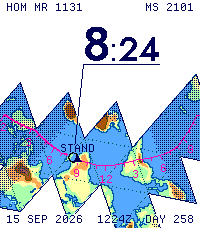
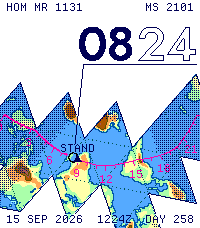
24-hour by default; callout time styles; zone time under the body
The page now defaults to 24-hour figures. The callout's time can be set in
five styles, workshopped on a contact sheet; the default is four figures at
one size with the minutes outlined (1424), matching the margins' four-figure
times. The margin can optionally give the time in the nautical zone under
the body, with its zone letter (Z at Greenwich, R US Eastern, I Japan).

Claude-Session: https://claude.ai/code/session_013jrbqnwLffJYPYurYaCgSZ

diff --git a/src/enroute-render.js b/src/enroute-render.js
@@ -74,6 +74,7 @@ export const CONTOURS=[500,1000,2000,3000,4000,5000],SHELF=-200;
 // above a station's horizon (about 15.6 degrees of arc).
 const EARTH=6371,ORBIT=410,MASK=5*RAD;
 export const ACQUISITION=(Math.acos(EARTH*Math.cos(MASK)/(EARTH+ORBIT))-MASK)/RAD;
+export const NUMERALS=['colon','plain','even','mono','accent'];
 export const FIGURE={scale:40,hour:80,hourTwo:72,minute:28,callout:28,calloutMinute:20};
 // The time scale registers with the route: its hour marks stand over the
 // two stations, 120 px apart on the zoomed charts, so each minute is exactly
@@ -155,7 +156,7 @@ const FIX=['....#....','...###...','...###...','..#####..','..#####..','.#######
 const AIRPORT=['.....#.....','.....#.....','....###....','...#...#...','..#.....#..','###.....###','..#.....#..','...#...#...','....###....','.....#.....','.....#.....'];
 const BAYER=[0,8,2,10,12,4,14,6,3,11,1,9,15,7,13,5];
 const HEXAGON=['..###..','.#...#.','#.....#','.#...#.','..###..'],TRIANGLE=['....#....','...#.#...','...#.#...','..#...#..','..#...#..','.#.....#.','#########'];
-export function renderEnroute({camera,ground,relief,light:zones,plate,epoch,timeZone,clock24,readout=false,home=null,events=[],tape='fixed'}){
+export function renderEnroute({camera,ground,relief,light:zones,plate,epoch,timeZone,clock24,readout=false,home=null,events=[],tape='fixed',numerals='colon',zone='utc'}){
   const pal=PLATES[plate],buf=new Uint8ClampedArray(W*H*3),mat=ground.material,sun=position('sun',Math.floor(epoch/MINUTE)*MINUTE).dir;
   const light=pal.night==='screen'?new Uint8Array(W*H):zones,land=mat.map(m=>m===LAND?1:0);
   const zoneAt=(x,y)=>light[Math.max(0,Math.min(H-1,Math.round(y)))*W+Math.max(0,Math.min(W-1,Math.round(x)))];
@@ -377,10 +378,29 @@ export function renderEnroute({camera,ground,relief,light:zones,plate,epoch,time
   // hung from a shoulder, the cartographer's elbow leader, that runs back
   // to the body. The leader is cased with a hairline of paper so it crosses
   // relief cleanly, and it breaks for lettering, as a printed line does.
-  const calloutWidth=(big,small)=>runWidth(hour,big)+2*(gapFor(big)+1)+glyph(small,':').width+runWidth(parts.m,small);
+  // The callout's time, in one of the styles under study: 'colon' (the
+  // hour, a colon and smaller minutes), 'plain' (no colon), 'even' (four
+  // figures at one size, the minutes outlined like the next hour's
+  // figure), 'mono' (minutes in double-size Departure Mono) and 'accent'
+  // (smaller minutes in the route's ink). Pixels are relative to the top
+  // left of the hour figure; every style shares its baseline.
+  const timeFigure=(big,small)=>{
+    const fh=runHeight(big),gap=gapFor(big),hh=numerals==='even'&&clock24?hour.padStart(2,'0'):hour,solid=figurePixels(hh,big,0,0),hollow=[],accent=[];
+    let x=runWidth(hh,big);const sh=runHeight(small),add=(px,to)=>{for(const q of px)to.push(q);};
+    if(numerals==='colon'){x+=gap+1;add(figurePixels(':',small,x,fh-sh),solid);x+=glyph(small,':').width+gap+1;add(figurePixels(parts.m,small,x,fh-sh),solid);x+=runWidth(parts.m,small);}
+    else if(numerals==='even'){x+=gap+3;add(outline(figurePixels(parts.m,big,x,0),1),hollow);x+=runWidth(parts.m,big);}
+    else if(numerals==='mono'){x+=gap+3;add(textPixels(departure.double,parts.m,x,fh),solid);x+=textWidth(departure.double,parts.m)-2;}
+    else{x+=gap+3;add(figurePixels(parts.m,small,x,fh-sh),numerals==='accent'?accent:solid);x+=runWidth(parts.m,small);}
+    return {solid,hollow,accent,w:x,h:fh};
+  };
+  const setTime=(t,fx,fy)=>{
+    const at=px=>px.map(([a,b])=>[a+fx,b+fy]),solid=at(t.solid),hollow=at(t.hollow),accent=at(t.accent);
+    letter([...solid,...hollow],ink('ink'));if(accent.length)letter(accent,ink('route'));
+    return [...solid,...hollow,...accent];
+  };
+  const calloutWidth=(big,small)=>timeFigure(big,small).w;
   const callout=({big,small,x:bx,y:by,up,reach,aside=null})=>{
-    const gap=gapFor(big),colon=gapFor(big)+1,hw=runWidth(hour,big),cw=glyph(small,':').width,mw=runWidth(parts.m,small),fw=hw+colon+cw+colon+mw;
-    const fh=runHeight(big),sh=runHeight(small),sy=up?by-reach:by+reach;
+    const t=timeFigure(big,small),fw=t.w,fh=t.h,sy=up?by-reach:by+reach;
     const open=([x,y])=>!type.some(b=>x>=b.x-2&&x<b.x+b.w+2&&y>=b.y-2&&y<b.y+b.h+2);
     if(aside){
       // Set aside in open map beside the track: the figure level with the
@@ -388,8 +408,7 @@ export function renderEnroute({camera,ground,relief,light:zones,plate,epoch,time
       // the body from the shoulder's near end.
       const fx=aside.x,fy=Math.max(aside.top,Math.min(aside.bottom-fh-3,by-fh)),y=fy+fh+3,end={x:fx+fw+1,y},d=Math.hypot(end.x-bx,end.y-by)||1,line=[];
       segment({x:bx+(end.x-bx)/d*9,y:by+(end.y-by)/d*9},end,(x,y)=>line.push([x,y]));segment({x:fx-1,y},end,(x,y)=>line.push([x,y]));
-      const mx0=fx+hw+colon,figure=[...figurePixels(hour,big,fx,fy),...figurePixels(':',small,mx0,fy+fh-sh),...figurePixels(parts.m,small,mx0+cw+colon,fy+fh-sh)];
-      letter(line.filter(open),ink('ink'));letter(figure,ink('ink'));
+      letter(line.filter(open),ink('ink'));const figure=setTime(t,fx,fy);
       return {figure,box:bounds(figure)};
     }
     // Hang the time on whichever side keeps it on the face and its leader
@@ -401,9 +420,8 @@ export function renderEnroute({camera,ground,relief,light:zones,plate,epoch,time
       return {fx,shown,score:(fits?0:1000)+(line.length-shown.length)*10+(side===(bx<W/2?1:-1)?0:1)};
     };
     const {fx,shown}=[layout(1),layout(-1)].sort((a,b)=>a.score-b.score)[0];
-    const fy=up?sy-3-fh:sy+3,mx0=fx+hw+colon;
-    const figure=[...figurePixels(hour,big,fx,fy),...figurePixels(':',small,mx0,fy+fh-sh),...figurePixels(parts.m,small,mx0+cw+colon,fy+fh-sh)];
-    letter(shown,ink('ink'));letter(figure,ink('ink'));
+    const fy=up?sy-3-fh:sy+3;
+    letter(shown,ink('ink'));const figure=setTime(t,fx,fy);
     return {figure,box:bounds(figure)};
   };
   if(camera.world&&tape!=='fixed'){
@@ -525,7 +543,10 @@ export function renderEnroute({camera,ground,relief,light:zones,plate,epoch,time
     if(middle){const c=textPixels(LABEL,middle,Math.round((left+right-textWidth(LABEL,middle))/2),y);letter(c,color,1);zulu={text:middle,box:bounds(c)};}
   };
   // Zulu: the same moment in UTC, as pilots and mission control keep it.
-  const utc=new Date(epoch),Z=`${String(utc.getUTCHours()).padStart(2,'0')}${String(utc.getUTCMinutes()).padStart(2,'0')}Z`;let zulu=null;
+  // With zone 'body', the margin shows instead the time in the nautical
+  // time zone under the body, with the zone's letter: Z at Greenwich, R for
+  // US Eastern, I for Japan. The Sun's is always near noon.
+  const zoned=zone==='body'?nauticalZone(body.lon):{hours:0,letter:'Z'},utc=new Date(epoch+zoned.hours*3600000),Z=`${String(utc.getUTCHours()).padStart(2,'0')}${String(utc.getUTCMinutes()).padStart(2,'0')}${zoned.letter}`;let zulu=null;
   const MONTHS='JAN FEB MAR APR MAY JUN JUL AUG SEP OCT NOV DEC'.split(' ');
   if(camera.world){
     // Satellites say where their numbers come from: the 2019 archive, or
@@ -546,7 +567,13 @@ export function renderEnroute({camera,ground,relief,light:zones,plate,epoch,time
     if(home){const [l,r]=camera.body==='sun'||camera.body==='moon'?riseText(camera.body,home,epoch,timeZone):[passText(camera.body,home,epoch,timeZone),''];margin(l,r,11,ink('ink'));}
   }
   return {buf,marker:{x:p.x,y:p.y,lat:body.lat,lon:body.lon},stations,home:homeMark,zulu,margins,events:fixes,
-    figure:{hour,minute:parts.m,next,time:camera.day||readout?`${hour}:${parts.m}`:null,box:bounds(hourPixels),nextBox:bounds(nextSolid),index,scale:{x0:X0,x1:X1},readout:minuteBox},rose:camera.world?null:{...c0,r:20}};
+    figure:{hour,minute:parts.m,next,time:camera.day||readout?(numerals==='colon'?`${hour}:${parts.m}`:`${numerals==='even'&&clock24?hour.padStart(2,'0'):hour}${parts.m}`):null,box:bounds(hourPixels),nextBox:bounds(nextSolid),index,scale:{x0:X0,x1:X1},readout:minuteBox},rose:camera.world?null:{...c0,r:20}};
+}
+// Nautical time zones: 15° wide, centred on multiples of 15°, lettered A–M
+// east of Greenwich (no J), N–Y west, Z at Greenwich.
+export function nauticalZone(lon){
+  const hours=Math.max(-12,Math.min(12,Math.round((((lon+540)%360)-180)/15)));
+  return {hours,letter:hours===0?'Z':hours>0?'ABCDEFGHIKLM'[hours-1]:'NOPQRSTUVWXY'[-hours-1]};
 }
 // Local clock time in the chart's four figures, 24-hour, no colon.
 const hhmm=(t,timeZone)=>{const q=clockParts(t,timeZone);return `${String(q.h).padStart(2,'0')}${String(q.m).padStart(2,'0')}`;};
@@ -572,15 +599,15 @@ export function localDate(epoch,timeZone){
 export class EnrouteRenderer{
   constructor(atlas,meters){this.atlas=atlas;this.meters=meters;this.stats={geometryBuilds:0,lightBuilds:0,renders:0};}
   render(state){
-    const {body,epoch,timeZone,clock24,plate}=state,readout=!!state.readout,home=state.home||null,events=state.events||[],tape=['tape','slide'].includes(state.tape)?state.tape:'fixed',start=civilHour(epoch,timeZone);
+    const {body,epoch,timeZone,clock24,plate}=state,readout=!!state.readout,home=state.home||null,events=state.events||[],tape=['tape','slide'].includes(state.tape)?state.tape:'fixed',numerals=NUMERALS.includes(state.numerals)?state.numerals:'colon',zone=state.zone==='body'?'body':'utc',start=civilHour(epoch,timeZone);
     const projection=state.projection==='fuller'?'fuller':'chart',view=viewOf(body),slide=tape==='slide'&&projection==='chart'&&view==='world',minute=Math.floor(epoch/MINUTE)*MINUTE,geometryKey=`${projection}/${body}/${start}/${timeZone}${slide?`/${minute}`:''}`,lightKey=`${geometryKey}/${Math.floor(epoch/MINUTE)}`;
     if(this.geometryKey!==geometryKey){
       this.camera=projection==='fuller'?(body==='sun'||body==='moon'||view==='day'?rollCamera(body,start,{span:192,day:localDay(epoch,timeZone)}):rollCamera(body,start,{span:180})):view==='day'?chartCamera(body,start,{day:localDay(epoch,timeZone)}):chartCamera(body,start,{span:SPAN,center:slide?minute:null});this.ground=groundLayer(this.camera,this.atlas);this.relief=reliefLayer(this.camera,this.meters);
       this.geometryKey=geometryKey;this.stats.geometryBuilds++;
     }
     if(this.lightKey!==lightKey){this.light=lightLayer(this.ground,epoch);this.lightKey=lightKey;this.stats.lightBuilds++;}
-    const sceneKey=`${lightKey}/${timeZone}/${clock24}/${plate}/${readout}/${tape}/${home?`${home.code}${home.lat},${home.lon}`:''}/${events.map(e=>`${e.epoch}${e.label}`).join('|')}`;if(this.sceneKey===sceneKey)return this.last;
-    const out=renderEnroute({camera:this.camera,ground:this.ground,relief:this.relief,light:this.light,plate,epoch,timeZone,clock24,readout,home,events,tape});
+    const sceneKey=`${lightKey}/${timeZone}/${clock24}/${plate}/${readout}/${tape}/${numerals}/${zone}/${home?`${home.code}${home.lat},${home.lon}`:''}/${events.map(e=>`${e.epoch}${e.label}`).join('|')}`;if(this.sceneKey===sceneKey)return this.last;
+    const out=renderEnroute({camera:this.camera,ground:this.ground,relief:this.relief,light:this.light,plate,epoch,timeZone,clock24,readout,home,events,tape,numerals,zone});
     const zones=[0,0,0];for(const z of this.light)zones[z]++;
     this.sceneKey=sceneKey;this.stats.renders++;
     const rgba=new Uint8ClampedArray(W*H*4);for(let i=0;i<W*H;i++){rgba.set(out.buf.subarray(i*3,i*3+3),i*4);rgba[i*4+3]=255;}

diff --git a/index.html b/index.html
@@ -15,7 +15,7 @@
 <fieldset id="time-scale"><legend>Time scale</legend><div class="segmented"><button data-tape="fixed" aria-pressed="true">Fixed</button><button data-tape="tape" aria-pressed="false">Tape</button><button data-tape="slide" aria-pressed="false">Tape + world</button></div><p class="help">For satellites on the world band. Fixed is the ruler with a moving pointer. Tape holds the pointer still in the middle and runs the minutes and hours past it, like a heading tape behind its lubber line; this hour’s figure stays pinned at the left until the next one pushes it off. Tape + world scrolls the map too, so the satellite always sits under the index line.</p></fieldset>
 <fieldset><legend>Plate</legend><div id="enroute-plates" class="theme-options"></div></fieldset>
 <fieldset><legend>Read the chart</legend><p class="help">The hour figures stand over their stations: this hour solid over its compass rose, the next outlined over its reporting point. Between them the magenta route is a graduated scale, two pixels a minute, with longer marks at five and fifteen minutes and the quarters numbered. The Sun or Moon symbol is the index; the bold line behind it is the hour already flown. On the ISS world view the same scale is set in a panel above the map, with a triangular index. Under Clock, a time callout can give the time in full, hung from a leader to the body. Filled triangles on the route are your events, at their minute. Contours fall every 1,000 m, dotted at 500 m; offshore, the dotted blue line is the 200 m edge of the continental shelf. Three-letter codes are the tracking stations of NASA’s Mercury and Apollo networks. The margin carries the date, the time in Zulu (UTC, as pilots keep it) and the day of the year.</p></fieldset>
-<details class="art-options"><summary>Clock</summary><div><label class="select-label" for="enroute-zone">Clock zone<select id="enroute-zone"><option value="America/New_York">Eastern time</option><option value="UTC">UTC</option><option value="Europe/London">London</option><option value="Asia/Kolkata">Kolkata</option></select></label><label class="art-checkbox"><input type="checkbox" id="enroute-24"> 24-hour figures</label><label class="art-checkbox"><input type="checkbox" id="enroute-readout"> Time callout</label></div></details><div class="art-study-date"><span id="enroute-date"></span><span>FROZEN STUDY</span></div></aside></section>
+<details class="art-options"><summary>Clock</summary><div><label class="select-label" for="enroute-zone">Clock zone<select id="enroute-zone"><option value="America/New_York">Eastern time</option><option value="UTC">UTC</option><option value="Europe/London">London</option><option value="Asia/Kolkata">Kolkata</option></select></label><label class="art-checkbox"><input type="checkbox" id="enroute-24" checked> 24-hour figures</label><label class="select-label" for="enroute-numerals">Callout time<select id="enroute-numerals"><option value="even">Four figures, minutes outlined</option><option value="accent">Minutes in route ink</option><option value="mono">Minutes in Departure Mono</option><option value="plain">Smaller minutes, no colon</option><option value="colon">Smaller minutes with colon</option></select></label><label class="select-label" for="enroute-margin-zone">Margin time<select id="enroute-margin-zone"><option value="utc">Zulu (UTC)</option><option value="body">Nautical zone under the body</option></select></label><label class="art-checkbox"><input type="checkbox" id="enroute-readout"> Time callout</label></div></details><div class="art-study-date"><span id="enroute-date"></span><span>FROZEN STUDY</span></div></aside></section>
 <section class="compare"><div class="section-heading"><p class="eyebrow">AT READING SIZE</p><p>One display pixel per pixel. The same minute on each plate.</p></div><div id="enroute-proofs" class="comparison-grid"></div></section>
 <section class="reading art-reading"><article><p class="eyebrow">THE CHART</p><h2>Real ground, lightly drawn.</h2><p>Relief comes from NOAA’s ETOPO1 and the USGS GMTED2010 elevation models, generalized and contoured like a jet navigation chart. The continental shelf edge is the real 200 m depth line. Small crosses mark every five degrees, and degree ticks run around the edge like a neatline.</p></article><article><p class="eyebrow">THE ROUTE</p><h2>Two fixes and a magenta line.</h2><p>This hour is a VOR in its compass rose; the next is a reporting point. The route is the magenta line pilots follow on every modern display. The route itself is graduated like a ruler, a mark every minute between the two fixes; the body on it is the index.</p></article><article><p class="eyebrow">THE NETWORK</p><h2>Where the astronauts were heard.</h2><p>Codes like TAN, CRO and GDS mark stations of the Mercury and Apollo tracking networks. For the ISS, each carries its acquisition circle, the reach of a low orbit, as drawn on the world maps of the first mission control rooms.</p></article></section>
 <details class="technical"><summary>About this working study</summary><div><p>This is a browser design study, not an installable watchface. Every watch pixel is one of the display’s 64 RGB222 colors. The map is north-up and equidistant cylindrical; for the Sun and Moon the hour’s two stations sit 120 pixels apart, directly under the time scale’s hour marks, and the ISS, which travels about 240° of longitude in an hour, is shown on a world band. Scenes are frozen until you interact: there is no animation loop, polling or sensor use, and the page asks for your location only if you choose My location as home.</p><p>Coastlines are Natural Earth 1:50m land. Relief is a quarter-degree grid built from the AWS Open Data Terrain Tiles at zoom 3, whose sources there are NOAA ETOPO1 and USGS GMTED2010, both public domain; heights are smoothed before contouring and are not for navigation. Day, civil twilight and night come from the calculated Sun at the selected minute. Tracking-station positions are approximate, from public histories of the networks. Acquisition circles show where a 410 km orbit rises five degrees above each station’s horizon, about 15.6° of arc.</p><p>Sun and Moon positions come from Astronomy Engine. The “ISS archive” view uses a bounded June 5, 2019 element set from Satellite.js. Live satellites use current element sets fetched from CelesTrak by this page (at most once every two hours per satellite, and only within three days of their epoch) and propagated with SGP4. Figures are Jost, after Futura; chart lettering is Departure Mono by Helena Zhang; headlines are Michroma, after Microgramma. All three are SIL OFL 1.1. <a href="./NOTICE.txt">Sources and credits</a>.</p><p id="enroute-diagnostics"></p><p>Other studies: <a href="./study-05.html">chart</a> · <a href="./study-04.html">Shorelight</a> · <a href="./study-03.html">two-ink atlas</a> · <a href="./study-02.html">sculptural globe</a> · <a href="./study-01.html">orbital explorer</a>.</p></div></details>

diff --git a/src/enroute-app.js b/src/enroute-app.js
@@ -17,7 +17,7 @@ const NOTES={
   moon:'The ground directly beneath the Moon. It also runs west, a little more slowly than the Sun.',
   iss:'An archived orbit from 5 June 2019. The station laps most of the world in an hour, so the whole world is the chart.'
 };
-const state={body:'sun',observation:'day',epoch:DEMOS.sun,timeZone:'America/New_York',clock24:false,plate:'enroute',readout:false,projection:'chart',home:HOMES['America/New_York'],events:STUDY_EVENTS,tape:'fixed'};
+const state={body:'sun',observation:'day',epoch:DEMOS.sun,timeZone:'America/New_York',clock24:true,plate:'enroute',readout:false,projection:'chart',home:HOMES['America/New_York'],events:STUDY_EVENTS,tape:'fixed',numerals:'even',zone:'utc'};
 let main,studyEpoch=state.epoch;
 const proofs={};
 function paint(canvas,buf){
@@ -26,7 +26,7 @@ function paint(canvas,buf){
 }
 function render(){
   const r=main.render(state);$('enroute-watch').getContext('2d').putImageData(new ImageData(r.rgba,W,H),0,0);
-  for(const plate of Object.keys(PLATES))paint(proofs[plate],plate===state.plate?r.buf:renderEnroute({camera:main.camera,ground:main.ground,relief:main.relief,light:main.light,plate,epoch:state.epoch,timeZone:state.timeZone,clock24:state.clock24,readout:state.readout,home:state.home,events:state.events,tape:state.tape}).buf);
+  for(const plate of Object.keys(PLATES))paint(proofs[plate],plate===state.plate?r.buf:renderEnroute({camera:main.camera,ground:main.ground,relief:main.relief,light:main.light,plate,epoch:state.epoch,timeZone:state.timeZone,clock24:state.clock24,readout:state.readout,home:state.home,events:state.events,tape:state.tape,numerals:state.numerals,zone:state.zone}).buf);
   $('time-scale').classList.toggle('muted',viewOf(state.body)!=='world'||state.projection==='fuller');
   for(const key of ['body','observation','plate','projection','tape'])document.querySelectorAll(`[data-${key}]`).forEach(b=>b.setAttribute('aria-pressed',String(b.dataset[key]===state[key])));
   document.querySelectorAll('[data-observation]').forEach(b=>b.disabled=state.body!=='moon');$('moon-light').classList.toggle('muted',state.body!=='moon');
@@ -41,6 +41,7 @@ function render(){
   }
   if(!list.children.length){const li=document.createElement('li');li.textContent='No events this day.';list.append(li);}
   $('home-select').value=state.home?(Object.keys(HOMES).find(k=>HOMES[k]===state.home)||'here'):'none';
+  $('enroute-numerals').value=state.numerals;$('enroute-margin-zone').value=state.zone;
   $('enroute-zone').value=state.timeZone;$('enroute-24').checked=state.clock24;$('enroute-readout').checked=state.readout;
   const sat=catalogEntry(state.body),elements=elementsFor(state.body);
   $('enroute-date').textContent=new Date(state.epoch).toISOString().slice(0,10);$('body-note').textContent=sat?sat.note:NOTES[state.body];
@@ -136,6 +137,8 @@ try{
     const epoch=atLocal(state.epoch,state.timeZone,h,m),day=localDay(epoch,state.timeZone),taken=state.events.filter(e=>e.epoch>=day.start&&e.epoch<day.end).map(e=>e.label);
     state.events=[...state.events,{epoch,title,label:uniqueCode(title,taken)}];$('event-label').value='';render();
   });
+  $('enroute-numerals').addEventListener('change',()=>{state.numerals=$('enroute-numerals').value;render();});
+  $('enroute-margin-zone').addEventListener('change',()=>{state.zone=$('enroute-margin-zone').value;render();});
   $('enroute-readout').addEventListener('change',()=>{state.readout=$('enroute-readout').checked;render();});
   render();window.groundtrackEnroute={ready:true,state,main,render,track,demos:DEMOS,observations:OBSERVATIONS,events:STUDY_EVENTS};
 }catch(error){$('enroute-caption').textContent=`The chart could not load: ${error.message}. Please reload.`;console.error(error);}

diff --git a/docs/STUDY-06.md b/docs/STUDY-06.md
@@ -13,7 +13,8 @@ The Study 05 chart, redrawn in the language of aeronautical charts and of NASA's
 - **Fixes.** This hour's station is a VOR: a hexagon inside a compass rose, with 30° ticks, longer cardinal ticks and a north arrowhead. The next hour is an open triangle, a reporting point. The map is north-up, so the rose shows true north, not magnetic variation.
 - **The time scale.** On the Sun and Moon charts the route itself is the scale. The hour's two stations sit exactly 120 px apart, so each minute is exactly two pixels along the magenta line. There is a graduation every minute, longer marks every five and fifteen minutes, and the quarters are numbered 15, 30 and 45 beneath. The body's own symbol is the index moving along it. The two hour figures stand in the chart over their stations at one size and on one baseline: this hour solid over its compass rose, the next outlined over its reporting point. The figures, graduations and symbols read as one drawing. On the ISS world band the same reading is set in a panel above the map, built like an instrument tape: 180 px for the hour, three pixels a minute, tall hour marks under the figures and a solid triangular index, running the way the route runs. An optional **time callout** gives the time in full below the route, labelled the way a chart labels a feature. The minutes are set smaller than the hour on the same baseline, as on a cockpit clock, and the time hangs from a shoulder, the cartographer's elbow leader, that runs back to the body. The leader is cased with a hairline of paper so it crosses relief cleanly. It breaks for lettering, as a printed line does, and takes whichever side keeps it clearest. A pointer with an arrowhead, a VFR-style pennant and a plain dotted line were also tried; at this pixel size the arrowhead and pennant are too small to read, and the dotted line was too plain. The earlier radar-style data block, the minutes raised beside the hour and a separate scale panel over the zoomed charts were all tried and dropped.
 - **Experiment: the sliding tape.** On the satellite world band the ruler can instead be a tape (Time scale: Tape). The index stands still in the middle of the panel, a hairline in the route's ink with the solid pointer on the baseline. The minutes and hours run past it at three pixels a minute, future to the right, like a heading tape behind its lubber line or the day strip of a time-slide face. The hour figures ride the tape on their marks: this hour solid, the next outlined, cut off at the edges like any tape. When this hour's mark leaves the left edge, its figure stays pinned there as a sticky label until the next hour's figure pushes it off, so the hour is always readable. With Tape + world the map slides too, centred on the satellite each minute, and the index line runs on, dotted, down through the map to the satellite: one line reads the time and the place. The fixed ruler remains the default. Sliding the world rebuilds the map every minute in the browser; on a watch it is a horizontal wrap of the same equirectangular bitmap, but that is unmeasured.
-- **Date.** The zoomed views print the local date and its day of the year in the bottom margin (`27 SEP 2026 · DAY 270`). The day of the year is how Mission Control's clocks counted days. Between them sits the same moment in Zulu time, UTC as pilots and mission control keep it (`0824Z`), centred in the space the date and day leave. The ISS margin keeps its archive date and altitude above the band and sets Zulu time at the right under it.
+- **Clock.** Figures are 24-hour by default, as on a flight deck; 12-hour remains an option. The callout's time was workshopped in five styles (`docs/screenshots/study-06-numerals-contact-sheet.png`): the hour with a colon and smaller minutes; the same without the colon; four figures at one size with the minutes outlined; minutes in double-size Departure Mono; and smaller minutes in the route's ink. **Four figures** is the page's default: `1424` reads as one time, matches the four-figure times in the margins (`0824Z`, `SR 0648`), and its outlined minutes reuse the chart's own solid-and-outlined pair. The others stay selectable.
+- **Date.** The zoomed views print the local date and its day of the year in the bottom margin (`27 SEP 2026 · DAY 270`). The day of the year is how Mission Control's clocks counted days. Between them sits the same moment in Zulu time, UTC as pilots and mission control keep it (`0824Z`), centred in the space the date and day leave. Optionally it gives instead the time in the nautical time zone under the body, with that zone's letter. The zones are 15° wide and lettered A–M east of Greenwich (no J), N–Y west, and Z at Greenwich: `2324I` while QZSS is over Japan, `0824R` over the US East. The Sun's is always close to `1200`, since the Sun stands over noon. The ISS margin keeps its archive date and altitude above the band and sets Zulu time at the right under it.
 - **The present.** The body's own symbol: ☉ for the Sun, the Moon in its calculated phase, or a small station for the ISS.
 - **The network.** Twenty-four stations of the Mercury (1961–63) and Apollo (1967–75) tracking networks, drawn as circled points with their network codes. Examples include TAN (Tananarive, Madagascar), ZZB (Zanzibar), CRO (Carnarvon) and GDS (Goldstone). When labels would collide, the station earlier in the list wins.
 - **Acquisition circles.** On the ISS world band, each station also carries the circle within which a 410 km orbit rises 5° above its horizon, about 15.6° of arc. The circles are computed on the sphere, so they widen toward the poles, as they did on the Mercator plotboards.
